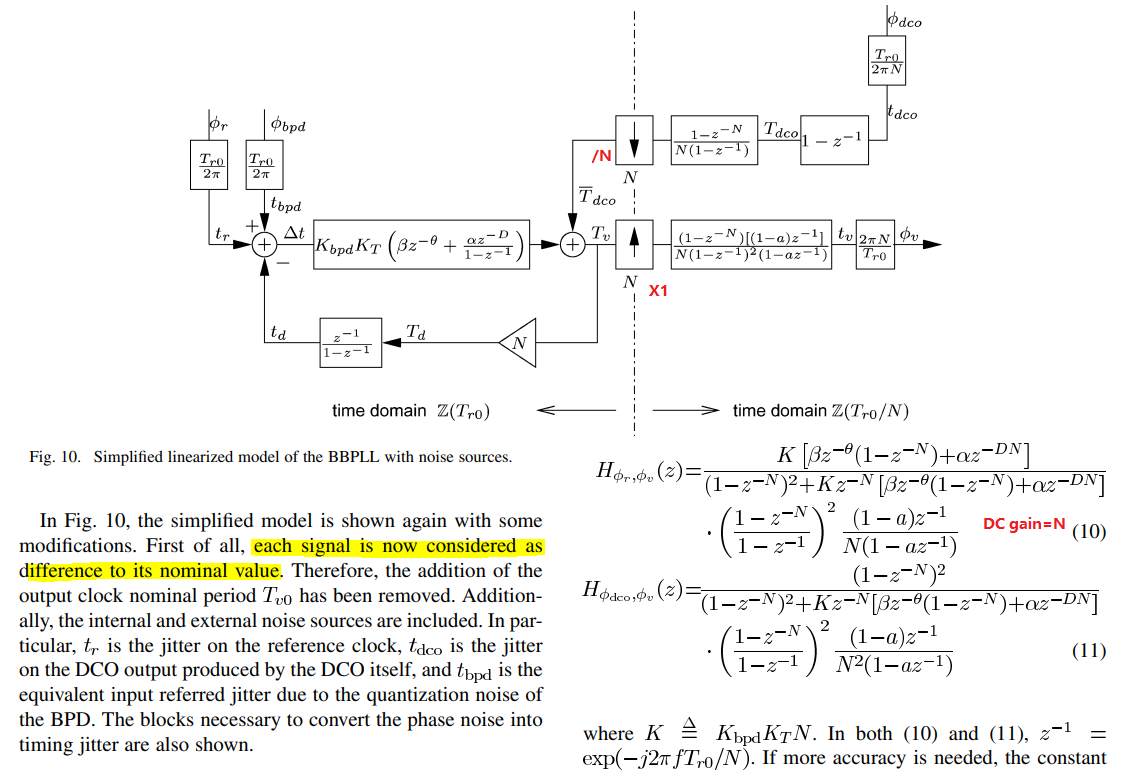
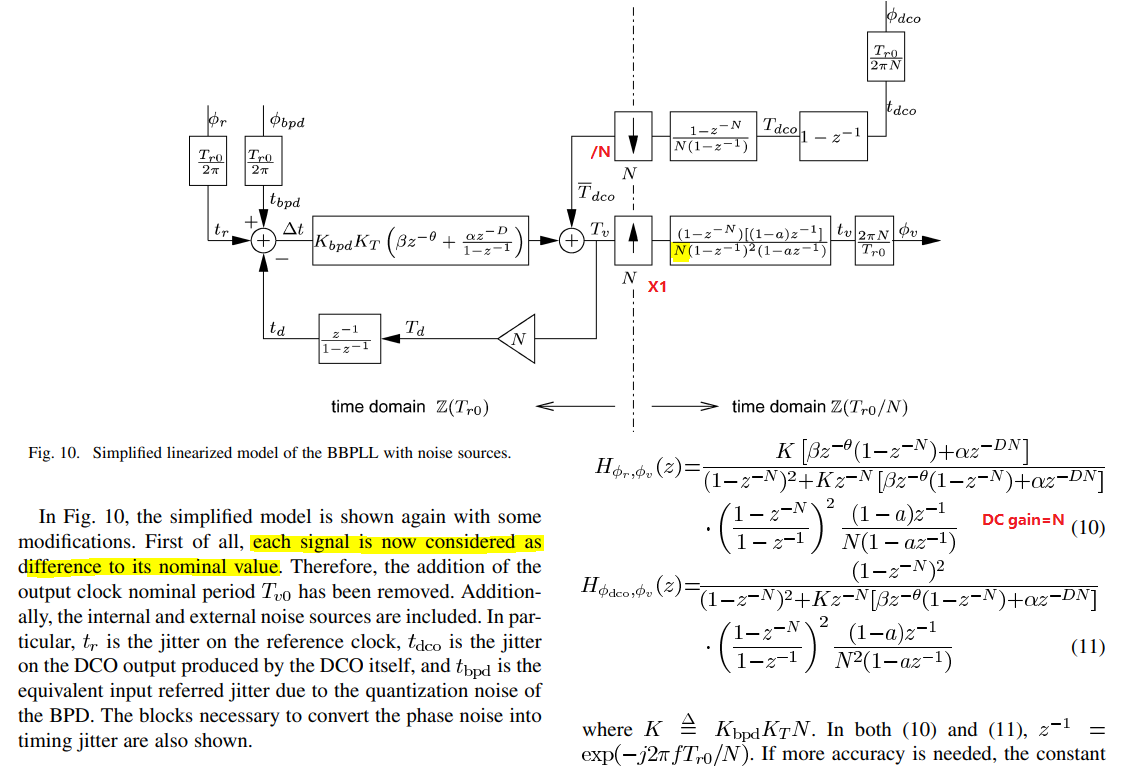
fix typo

diff --git a/source/_posts/dpll.md b/source/_posts/dpll.md
@@ -680,7 +680,7 @@ PSD_phi = PSD_phi(1:floor(npsd/2));
 
 
 
-### Simplified linearized model of !!DPLL
+### simplified linearized model of !!DPLL
 
 ![image-20260903111015](dpll/image-20260903111015.png)
 
@@ -691,6 +691,9 @@ $$
 H_{t_r,T_v} \approx \frac{1-z^{-1}}{Nz^{-1}}
 $$
 
+
+
+The $1/N$ is an intentional normalization associated with the change of sampling/time domain, chosen to preserve the correct DC (steady-state) gain; it is not an inherent gain factor of upsampling
 
 ---
 
